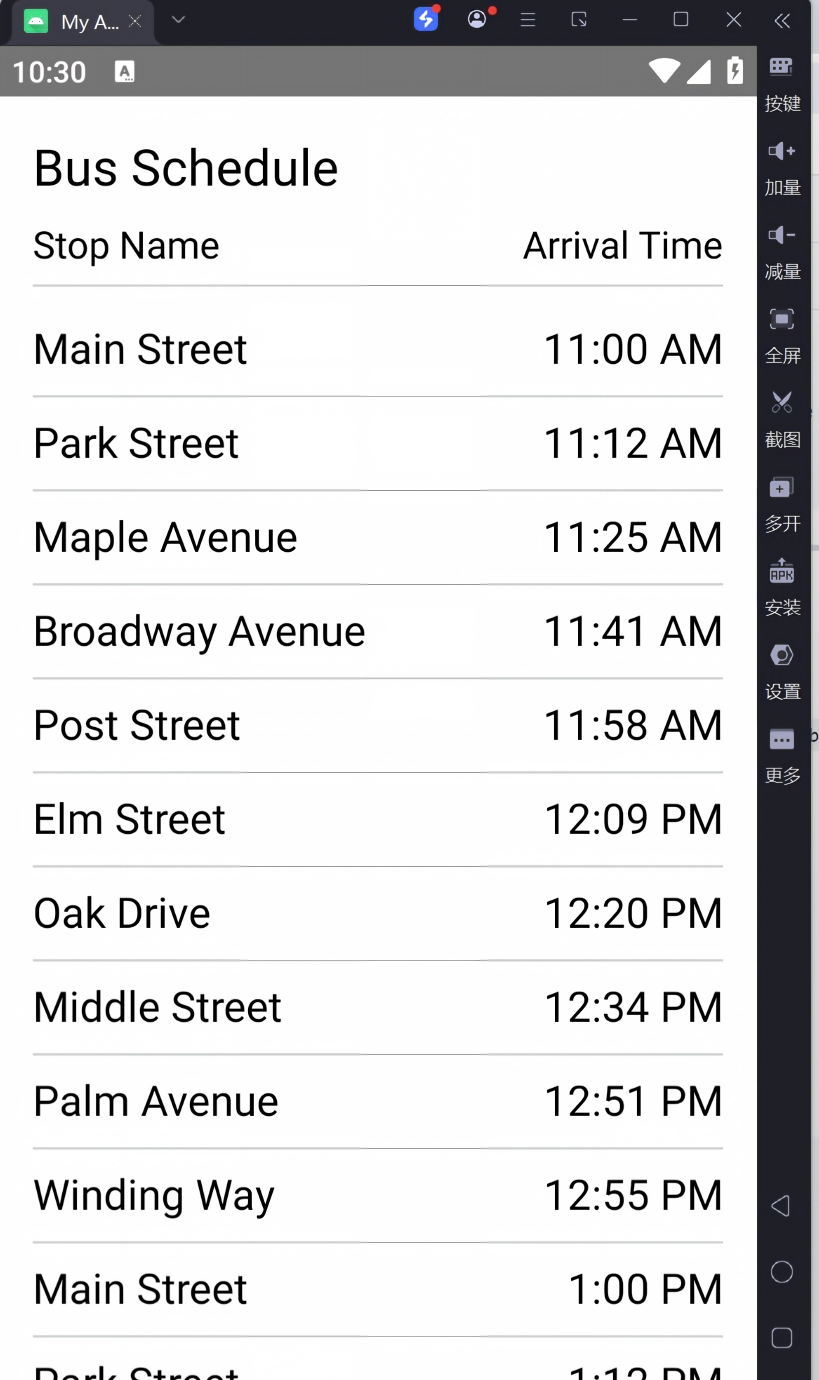
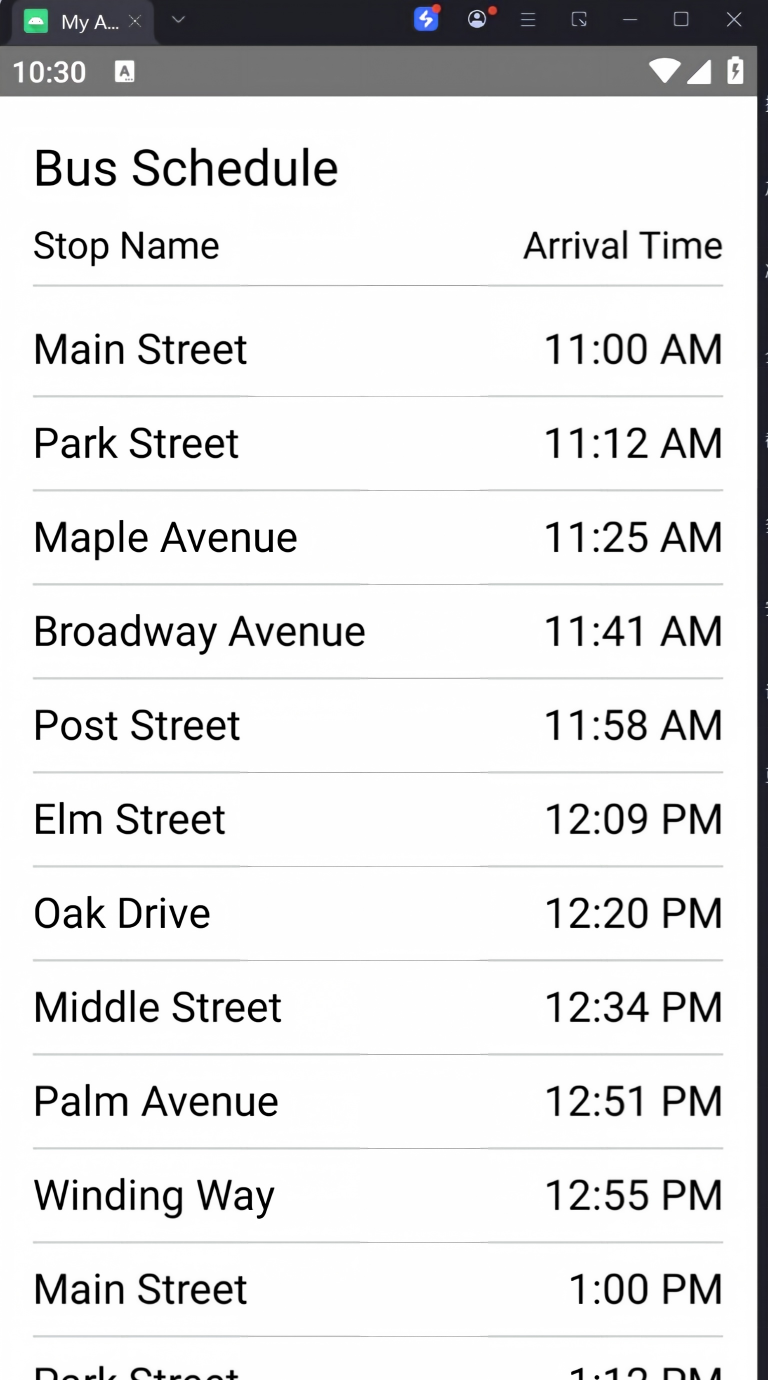
完成Lab14作业

diff --git a/2025003032黄猛/Lab14/BusScheduleDao.kt b/2025003032黄猛/Lab14/BusScheduleDao.kt
@@ -13,5 +13,3 @@ interface BusScheduleDao {
     fun getByStopName(stopName: String): Flow<List<BusSchedule>>
 }
 
-
-

diff --git a/2025003032黄猛/Lab14/BusSchedule.kt b/2025003032黄猛/Lab14/BusSchedule.kt
@@ -26,4 +26,3 @@ data class BusSchedule(
     @ColumnInfo(name = "arrival_time") val arrivalTimeInMillis: Int
 )
 
-

diff --git a/2025003032黄猛/Lab14/BusScheduleDatabase.kt b/2025003032黄猛/Lab14/BusScheduleDatabase.kt
@@ -27,3 +27,4 @@ abstract class BusScheduleDatabase : RoomDatabase() {
         }
     }
 }
+

diff --git a/2025003032黄猛/Lab14/BusScheduleViewModel.kt b/2025003032黄猛/Lab14/BusScheduleViewModel.kt
@@ -44,4 +44,3 @@ class BusScheduleViewModel(
         }
     }
 }
-

diff --git a/2025003032黄猛/Lab14/report.md b/2025003032黄猛/Lab14/report.md
@@ -88,4 +88,3 @@ fun getByStopName(stopName: String): Flow<List<BusSchedule>>
 ## 九、实验总结
 
 通过本实验，我完成了从示例数据到 Room 数据层的替换，理解了 Entity、DAO、Database、ViewModel 和 Compose 之间的数据流转方式。Room 负责持久化读取，ViewModel 负责对外暴露 Flow，Compose 负责收集并渲染数据，三者协作后即可实现基于预置数据库的公交时刻表应用。
-